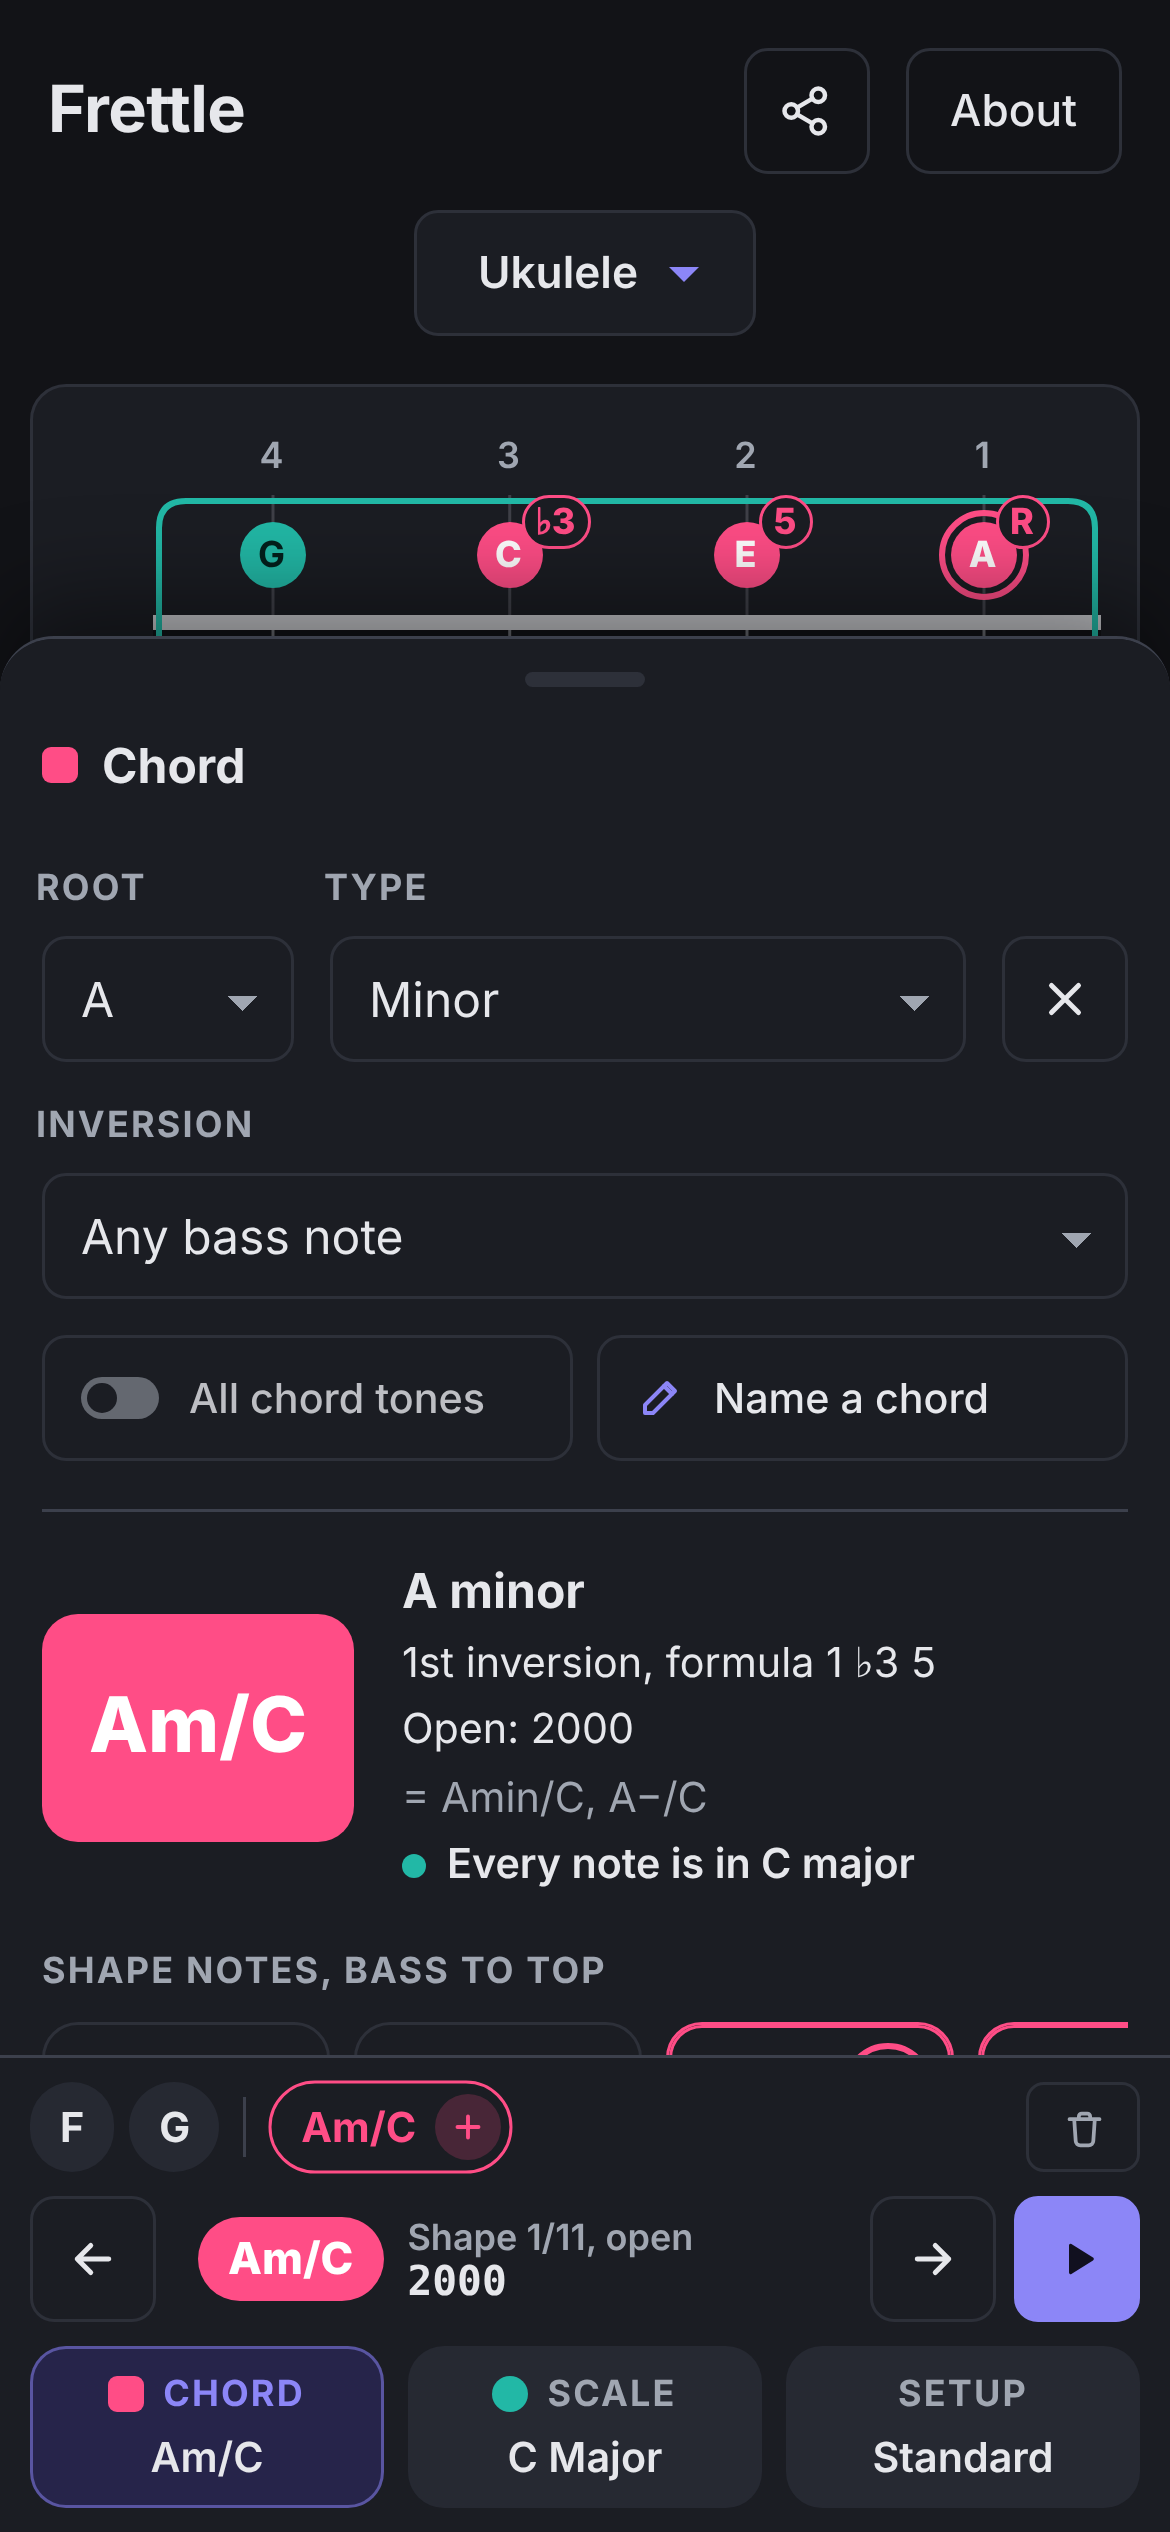
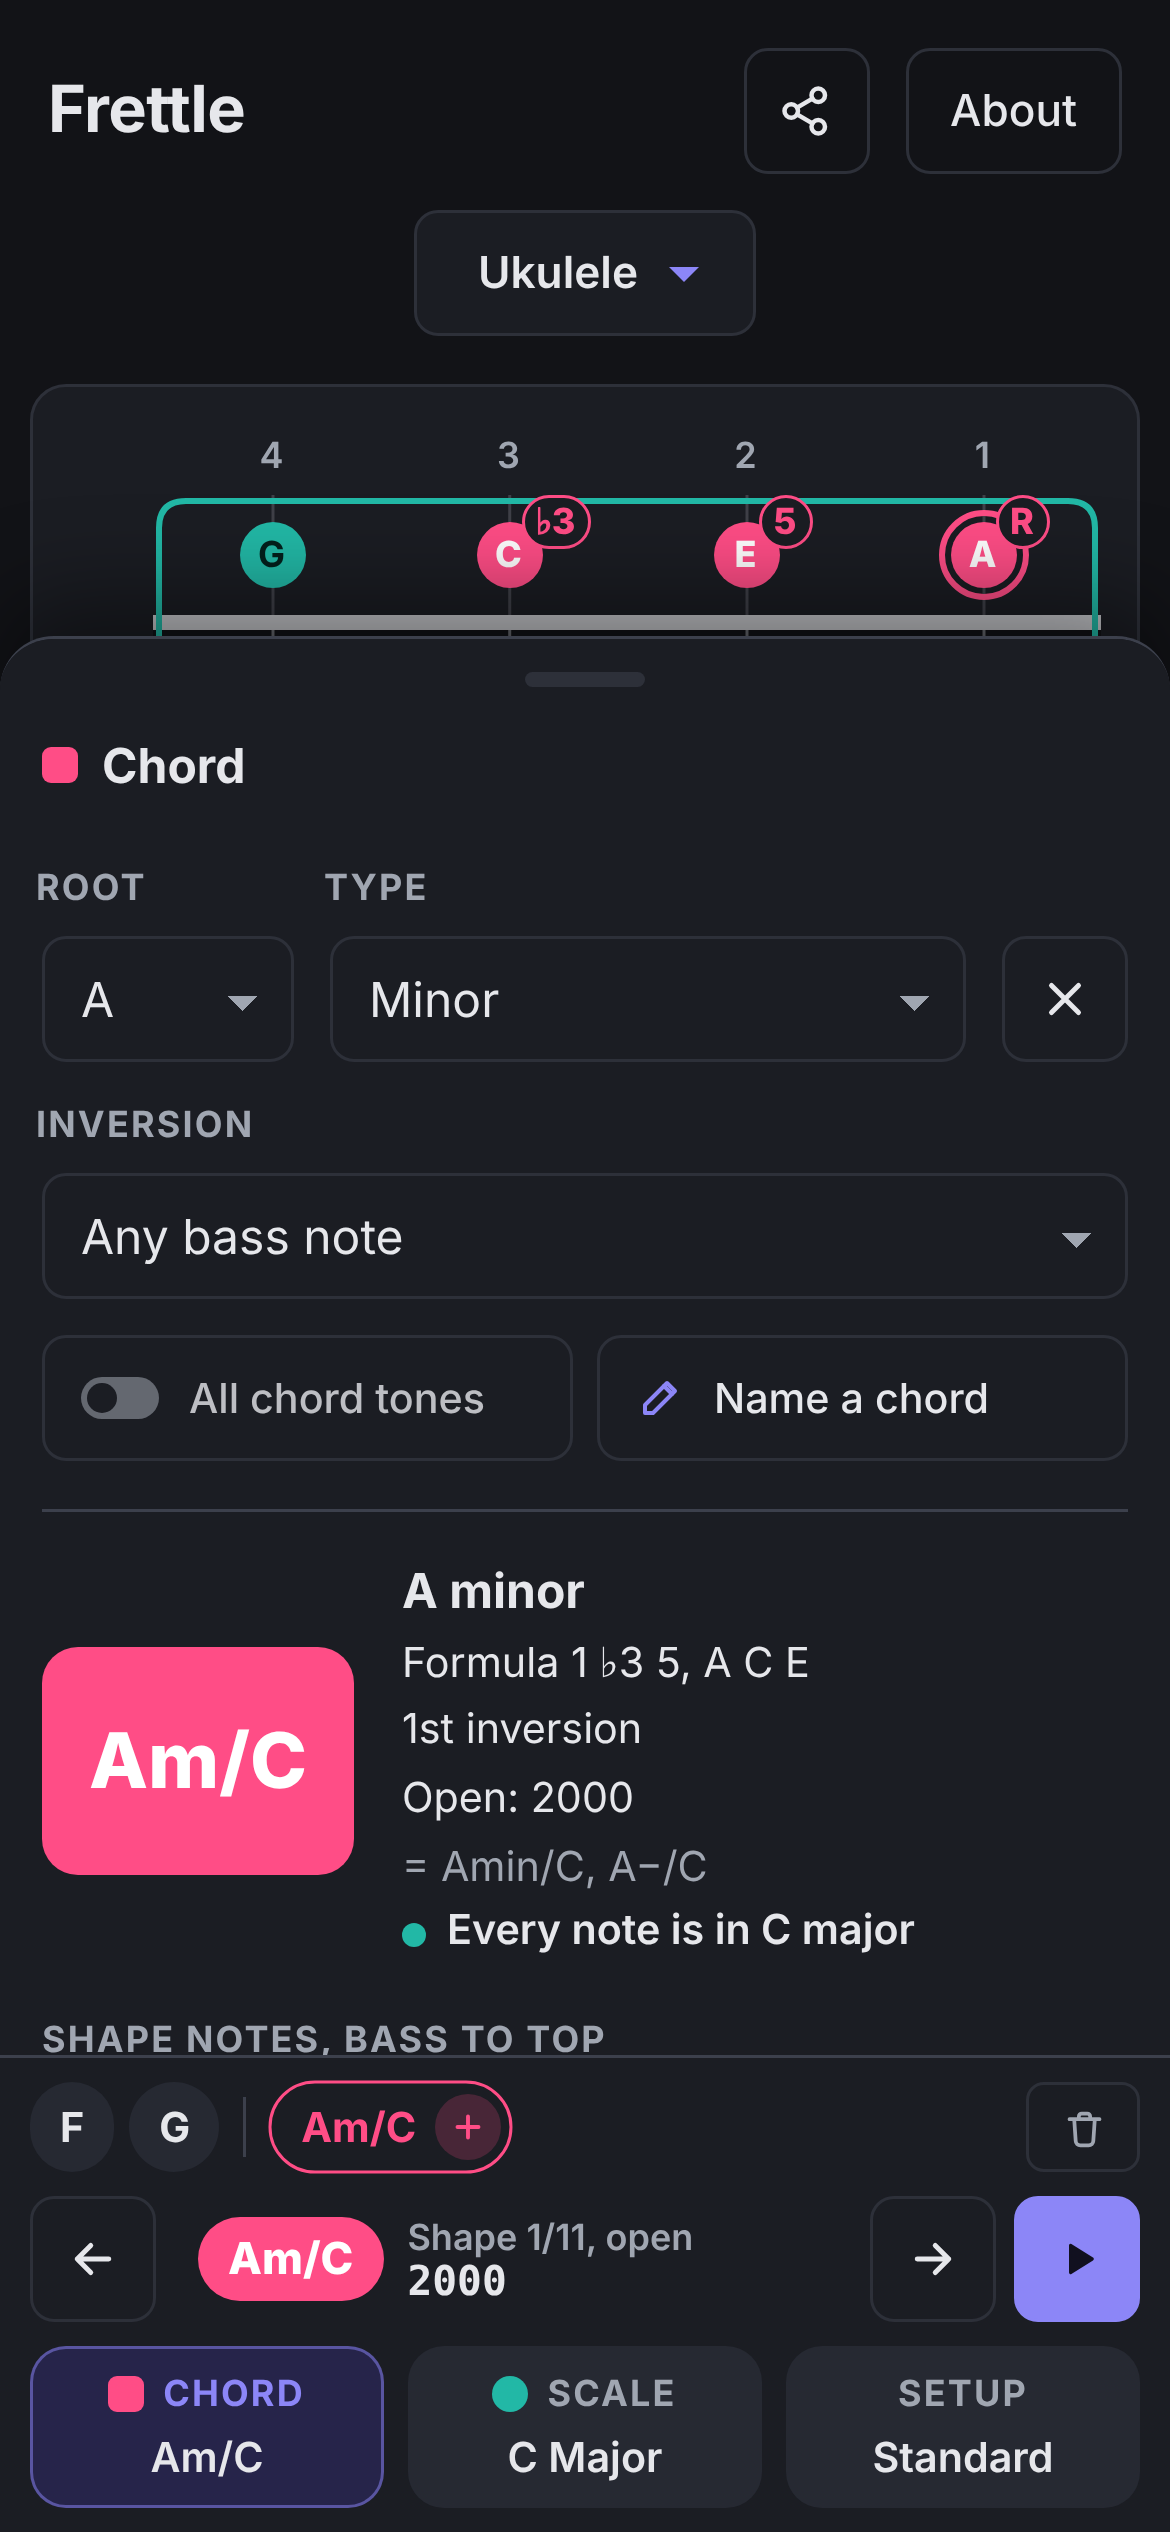
feat: improved hero chord name display (wrap)

Changed region(s): [[0.0308, 0.624, 0.8, 0.8112], [0.5846, 0.6552, 0.6769, 0.6864]]

diff --git a/web/script.js b/web/script.js
@@ -3974,6 +3974,51 @@ function fitText(el, min = 0) {   // (min: no smaller than this, the rest cut wi
   if (width > room) el.style.fontSize = `${Math.max(min, Math.floor((size * room) / width))}px`;
 }
 
+/* The chord's name in its card: on one line, a smaller font where it does
+   not fit, down to SYMBOL_SPLIT of its size; past that, on two lines where
+   a name can break (before its brackets or its bass note, after a comma in
+   its brackets: "B♭m7♭5" / "(add11,♭9,♭13)/F♭"), at that size, smaller
+   again only if it must (to its width, or its height). The split that
+   lets it be largest, the more natural ones first when nearly as large:
+   the bass note under the chord (as written as a fraction), then the
+   brackets on a line of their own, then after a comma. Two lines only
+   where they let it be larger than one would. */
+const SYMBOL_SPLIT = 0.65;
+function fitSymbol(el, text, slashBass) {
+  el.textContent = text;
+  el.classList.remove('two');
+  el.style.fontSize = '';
+  const cs = getComputedStyle(el);
+  const room = parseFloat(cs.width) - parseFloat(cs.paddingLeft) - parseFloat(cs.paddingRight);
+  const high = parseFloat(cs.height);
+  const size = parseFloat(cs.fontSize);
+  if (!(room > 0)) return;
+  measureCtx = measureCtx || document.createElement('canvas').getContext('2d');
+  measureCtx.font = `${cs.fontWeight} ${size}px ${cs.fontFamily}`;
+  const width = (t) => measureCtx.measureText(t).width;   // (at the full size)
+  const one = Math.min(size, (size * room) / width(text));
+  if (one >= size * SYMBOL_SPLIT) { if (one < size) el.style.fontSize = `${Math.floor(one)}px`; return; }
+  // Where it can break: before "(", before its bass note's "/" (not the one
+  // of 6/9), after a "," in the brackets
+  const breaks = [];   // [where, how natural: the larger, the more]
+  for (let i = 1; i < text.length; i++) {
+    if (slashBass && i === text.lastIndexOf('/')) breaks.push([i, 1 / 0.85]);
+    else if (text[i] === '(') breaks.push([i, 1 / 0.9]);
+    else if (text[i - 1] === ',') breaks.push([i, 1]);
+  }
+  let best = null;
+  for (const [i, natural] of breaks) {
+    const lines = [text.slice(0, i), text.slice(i)];
+    const wide = Math.max(...lines.map(width));
+    const fit = Math.min(size * SYMBOL_SPLIT, (size * room) / wide, high / (2 * 1.1));   // (two lines of 1.1 high)
+    if (!best || fit * natural > best.fit * best.natural) best = { lines, fit, natural };
+  }
+  if (!best || best.fit <= one) { el.style.fontSize = `${Math.floor(one)}px`; return; }
+  el.innerHTML = best.lines.map(esc).join('<br>');
+  el.classList.add('two');
+  el.style.fontSize = `${Math.floor(best.fit)}px`;
+}
+
 /* The middle of a stepper, or of Name a chord: the name (a pill) beside
    two lines, its number ("Shape 1/4, fret 11", "Name 1/3") over what it
    is (its frets, the notes, its meaning). The name whole, beside room for
@@ -5101,9 +5146,8 @@ function renderChordPanel(ch, sc) {
   }
 
   const rootName = ch.rootName;
-  els.chordSymbol.textContent = ch.symbol;
   els.chordSymbol.classList.add('on');
-  fitText(els.chordSymbol);
+  fitSymbol(els.chordSymbol, ch.symbol, ch.bassIndex > 0);
   els.chordName.textContent = `${rootName} ${ch.def.name.toLowerCase()}`;
   const optional = optionalTones(ch.def, String(ch.bassIndex), Boolean(instrument().piano));   // (in brackets, as in the Chord type menu; never the shape's bass)
   const formula = ch.def.degrees.map((d, i) => {

diff --git a/web/styles.css b/web/styles.css
@@ -1144,6 +1144,7 @@ body.piano .settings #tglFlats, body.piano #tglScaleOnly { grid-column: 1 / -1; 
   overflow: hidden;
 }
 .np-symbol.on { background: var(--chord); color: var(--chord-text); }
+.np-symbol.two { line-height: 1.1; text-align: center; }   /* a long name on two lines (fitSymbol) */
 
 .np-desc { display: grid; gap: 2px; min-width: 0; }
 .np-desc > div { min-height: 1.4em; overflow: hidden; text-overflow: ellipsis; }
